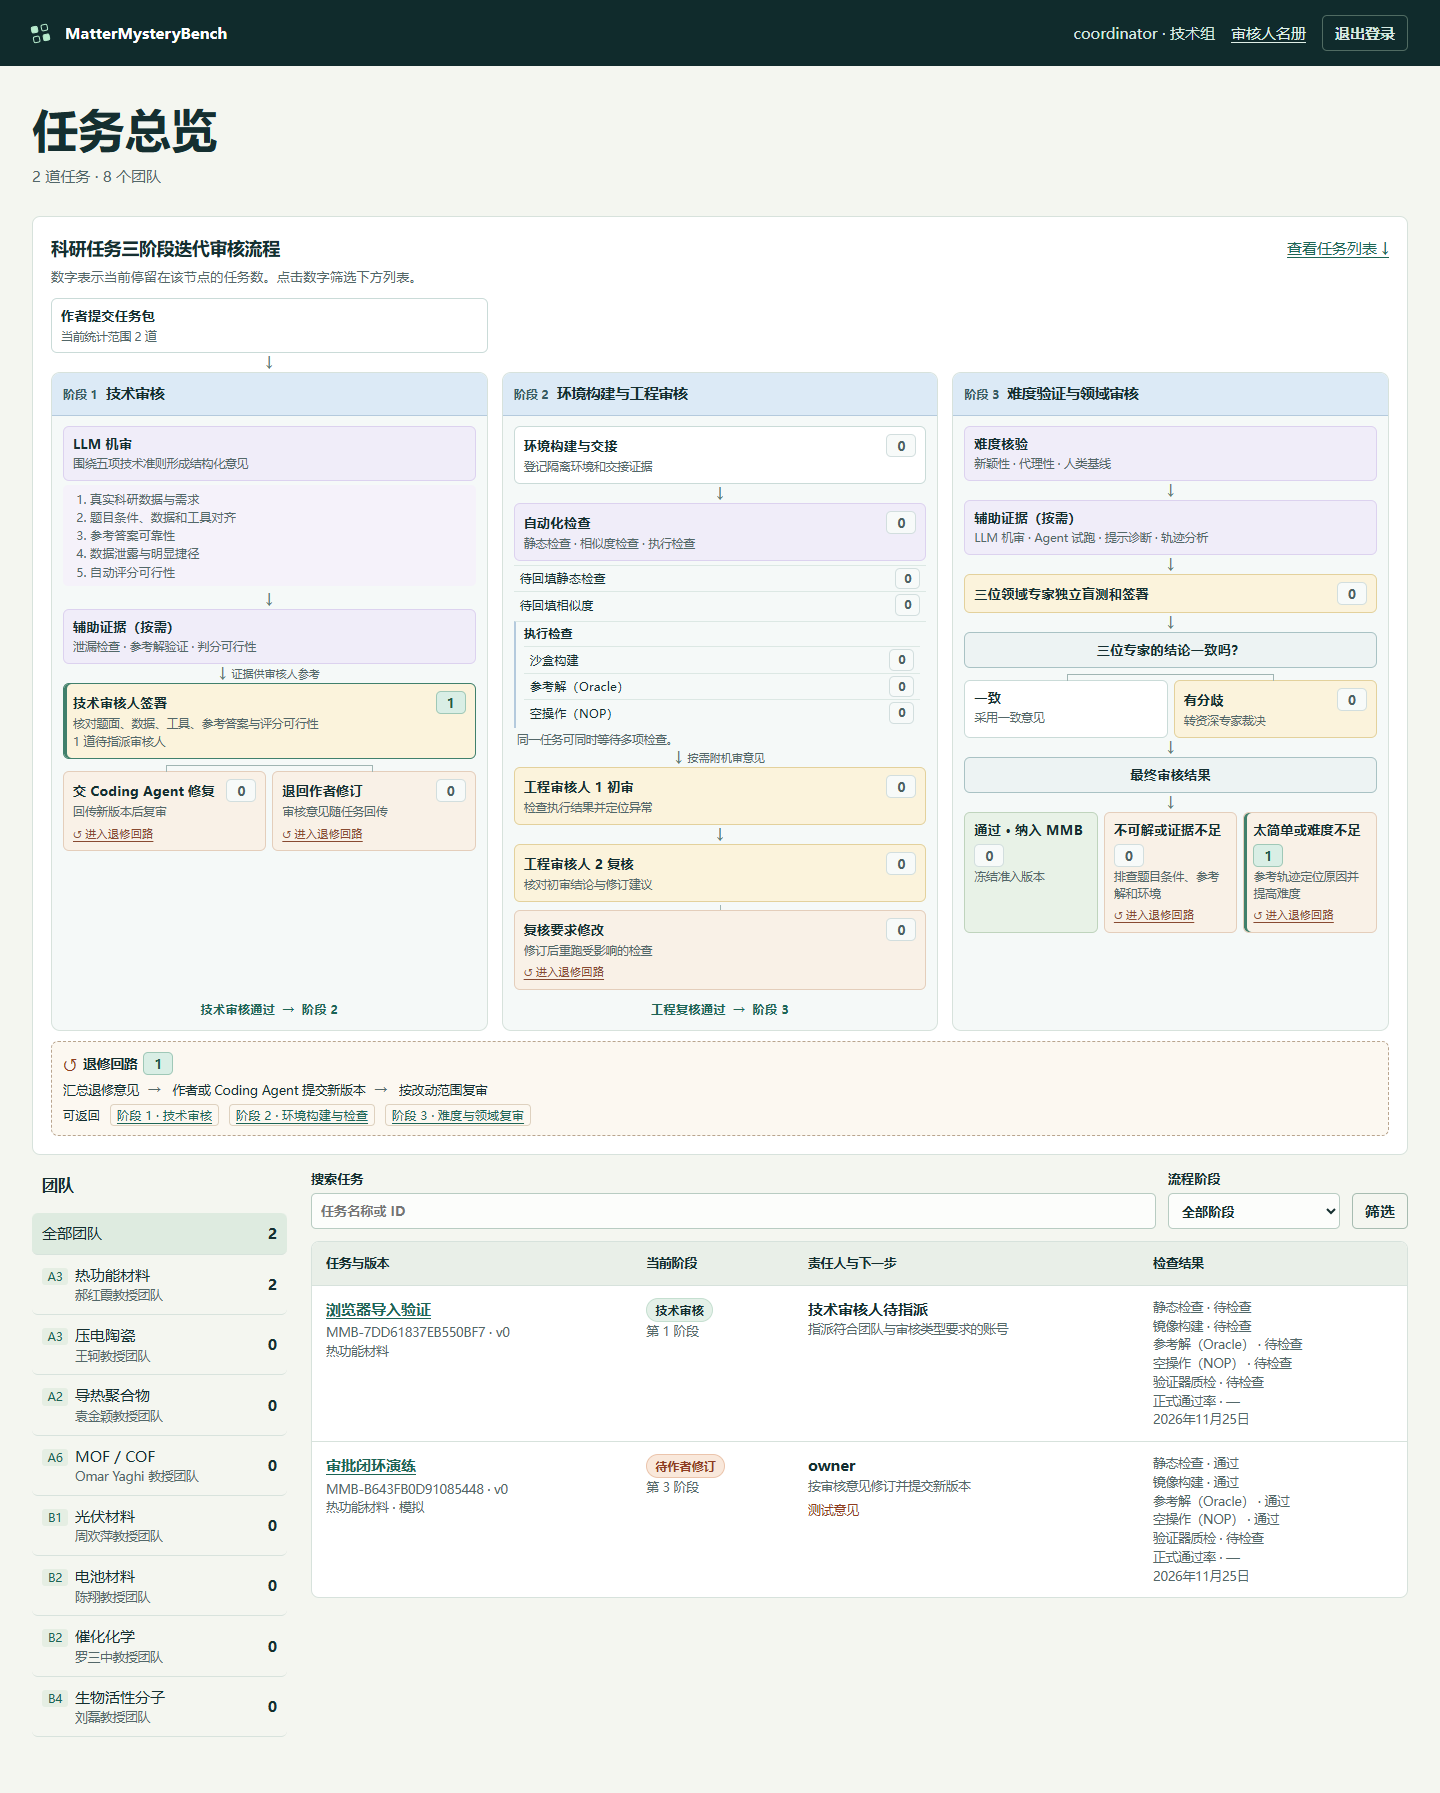
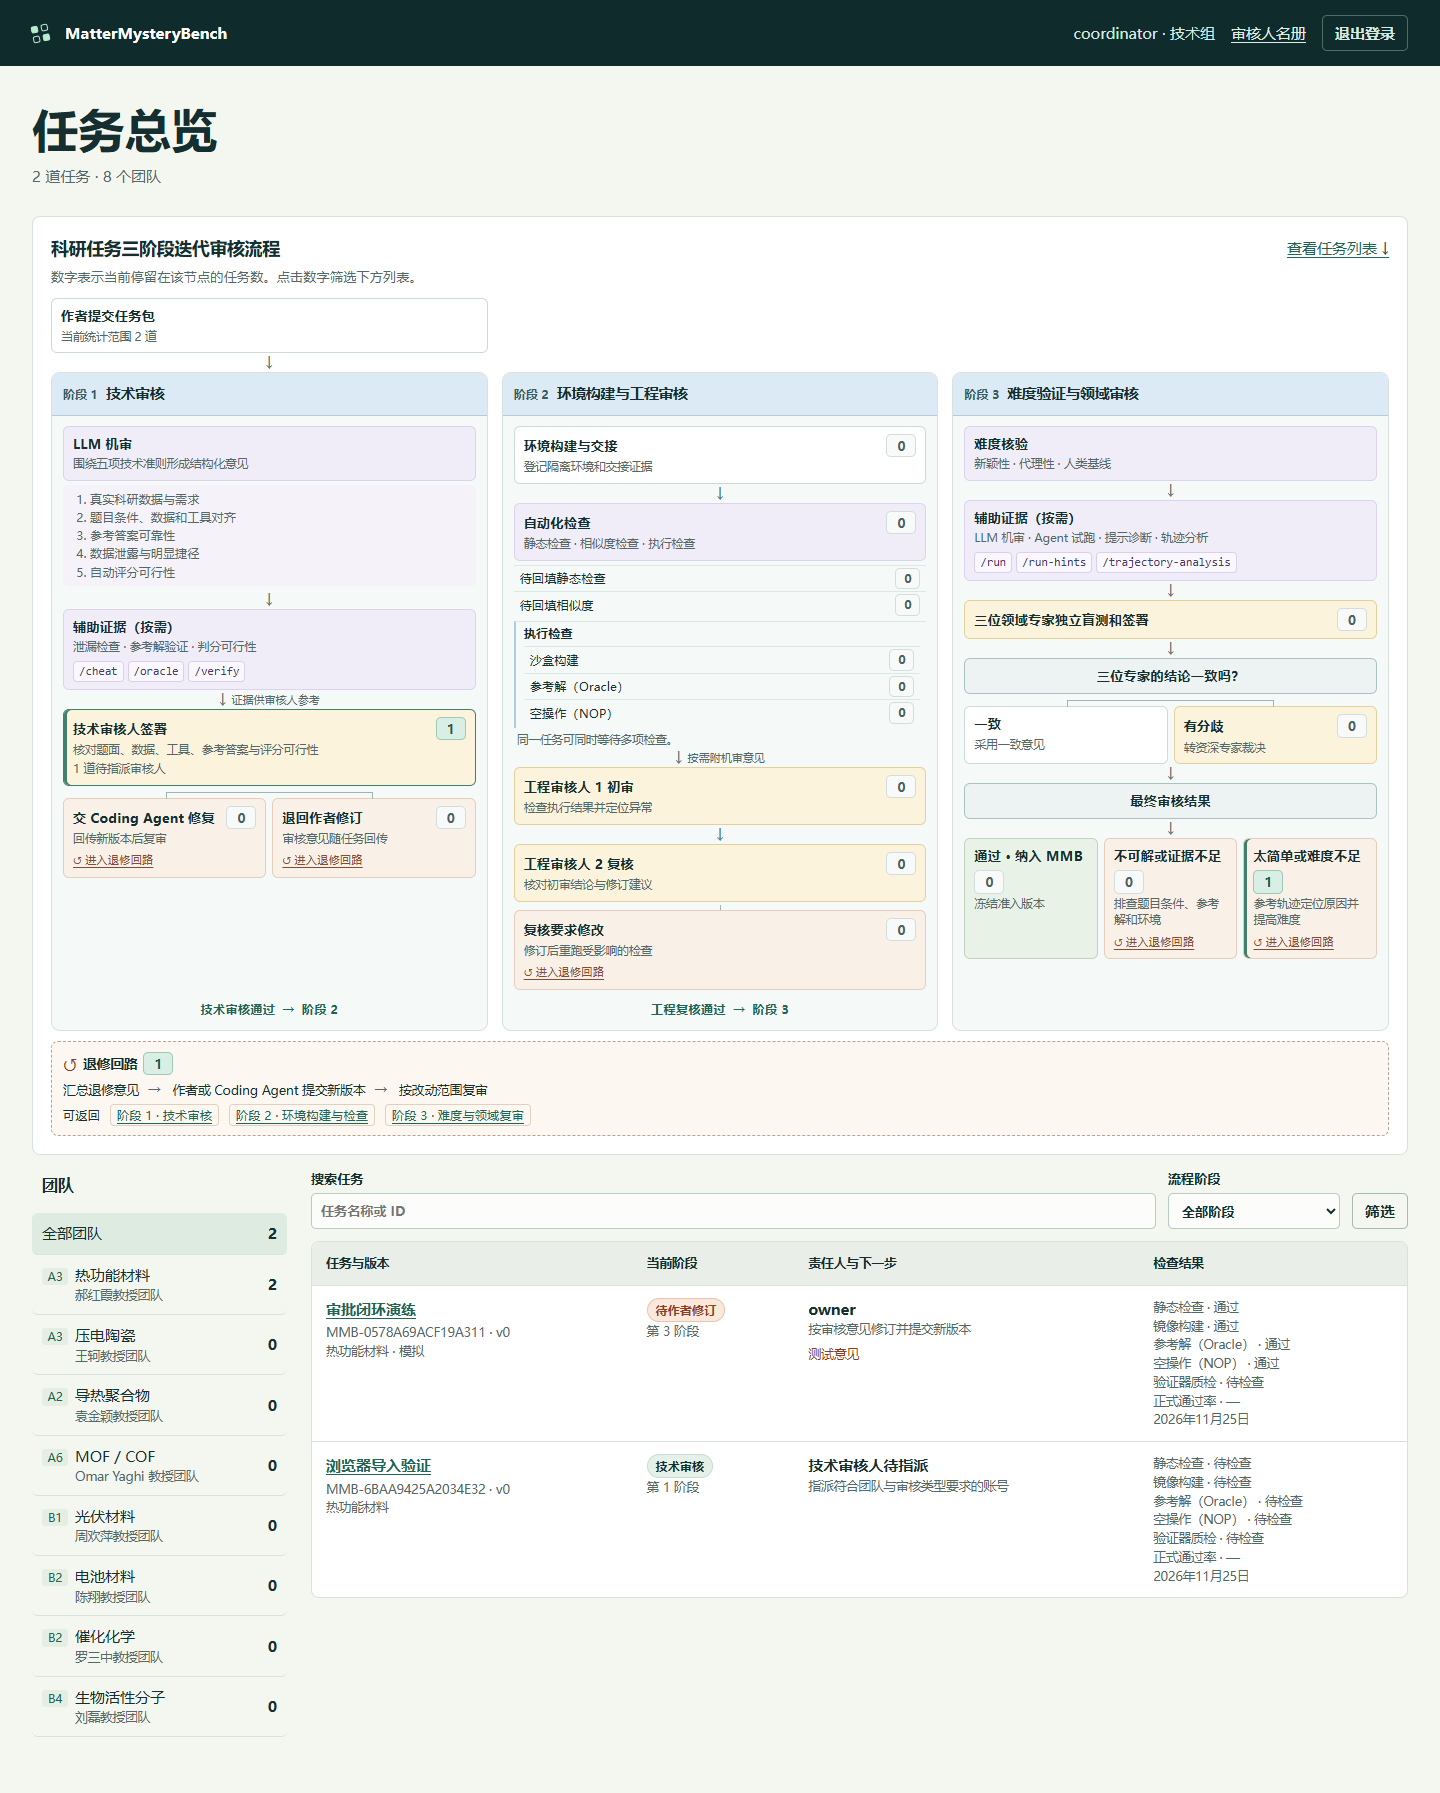
Preserve English slash commands in the workflow diagram

diff --git a/portal/mmb/templates/workflow_map.html b/portal/mmb/templates/workflow_map.html
@@ -2,13 +2,14 @@
 {% set count = node_counts[key] %}
 <a class="map-count-link{% if count %} has-tasks{% endif %}" data-count-for="{{ key }}" href="{{ url_for('dashboard', node=key, team=selected or None, q=query or None, archive=1 if archive else None, _anchor='task-list') }}" aria-label="{{ title }}，{{ count }} 道任务"{% if node == key %} aria-current="true"{% endif %}>{{ count }}</a>
 {% endmacro %}
-{% macro node(key, title, detail='', tone='') %}
+{% macro node(key, title, detail='', tone='', commands=()) %}
 {% set active = not map_overview and diagram.current == key %}
 {% set visited = not map_overview and key in diagram.visited %}
 {% set queue = map_overview and key in node_counts %}
 <div class="map-node {{ tone }}{% if active %} map-active{% elif visited %} map-visited{% endif %}{% if queue and node_counts[key] %} map-has-tasks{% endif %}" data-node="{{ key }}"{% if active %} aria-current="step"{% endif %}>
 <div class="map-node-title"><strong>{{ title }}</strong>{% if queue %}{{ queue_count(key, title) }}{% elif active %}<span class="map-state">当前</span>{% elif visited %}<span class="map-state">已到达</span>{% endif %}</div>
 {% if detail %}<small>{{ detail }}</small>{% endif %}
+{% if commands %}<ul class="map-commands">{% for command in commands %}<li><code>{{ command }}</code></li>{% endfor %}</ul>{% endif %}
 {% if map_overview and key == 'technical' and unassigned_technical %}<small>{{ unassigned_technical }} 道待指派审核人</small>{% endif %}
 {% if tone == 'map-return-node' %}<a class="map-return-link" href="#revision-loop">↺ 进入退修回路</a>{% endif %}
 </div>
@@ -27,7 +28,7 @@
 {{ node('technical-evidence', 'LLM 机审', '围绕五项技术准则形成结构化意见', 'map-evidence') }}
 {% if map_overview %}<ol class="map-rubrics">{% for label in technical_criteria.values() %}<li>{{ label }}</li>{% endfor %}</ol>{% endif %}
 {{ arrow() }}
-{{ node('technical-tools', '辅助证据（按需）', '泄漏检查 · 参考解验证 · 判分可行性', 'map-evidence') }}
+{{ node('technical-tools', '辅助证据（按需）', '泄漏检查 · 参考解验证 · 判分可行性', 'map-evidence', ('/cheat', '/oracle', '/verify')) }}
 {{ arrow('证据供审核人参考') }}
 {{ node('technical', '技术审核人签署', '核对题面、数据、工具、参考答案与评分可行性', 'map-human') }}
 <div class="map-fork" aria-label="技术审核分支">
@@ -71,7 +72,7 @@
 <div class="map-lane-body">
 {{ node('difficulty', '难度核验', '新颖性 · 代理性 · 人类基线', 'map-evidence') }}
 {{ arrow() }}
-{{ node('domain-evidence', '辅助证据（按需）', 'LLM 机审 · Agent 试跑 · 提示诊断 · 轨迹分析', 'map-evidence') }}
+{{ node('domain-evidence', '辅助证据（按需）', 'LLM 机审 · Agent 试跑 · 提示诊断 · 轨迹分析', 'map-evidence', ('/run', '/run-hints', '/trajectory-analysis')) }}
 {{ arrow() }}
 {{ node('domain', '三位领域专家独立盲测和签署', '', 'map-human') }}
 {{ arrow() }}

diff --git a/portal/mmb/static/portal.css b/portal/mmb/static/portal.css
@@ -52,6 +52,8 @@ th{background:#e9efe8;font-size:.79rem}tr:last-child td{border-bottom:0}td small
 .map-node{min-width:0;padding:7px 9px;border:1px solid #cadbd8;border-radius:6px;background:white;overflow-wrap:anywhere}
 .map-node-title{display:flex;align-items:baseline;justify-content:space-between;gap:4px;font-size:.84rem}
 .map-node small{display:block;margin-top:2px;font-size:.73rem;line-height:1.42}
+.map-commands{display:flex;flex-wrap:wrap;gap:4px;margin:5px 0 0;padding:0;list-style:none}
+.map-commands code{display:block;padding:1px 5px;border:1px solid #dacfec;border-radius:4px;background:#faf7ff;color:#493a68;font-size:.73rem}
 .map-node.map-evidence{background:#f0edf9;border-color:#dcd2ef}
 .map-node.map-human{background:#fbf3dc;border-color:#e3d19c}
 .map-node.map-has-tasks{border-color:#40806c;box-shadow:inset 3px 0 #40806c}

diff --git a/portal/tests/browser_e2e.py b/portal/tests/browser_e2e.py
@@ -149,6 +149,12 @@ def run():
                 assert author.locator("body").evaluate("(body) => body.scrollWidth") <= 390
                 coordinator.goto(base)
                 expect(coordinator.locator(".dashboard-workflow .map-lane")).to_have_count(3)
+                expect(coordinator.locator('[data-node="technical-tools"] code')).to_have_text(
+                    ["/cheat", "/oracle", "/verify"]
+                )
+                expect(coordinator.locator('[data-node="domain-evidence"] code')).to_have_text(
+                    ["/run", "/run-hints", "/trajectory-analysis"]
+                )
                 expect(coordinator.locator('[data-count-for="technical"]')).to_have_text("1")
                 expect(coordinator.locator('[data-count-for="too-easy"]')).to_have_text("1")
                 expect(coordinator.locator('[data-count-for="admitted"]')).to_have_text("0")
